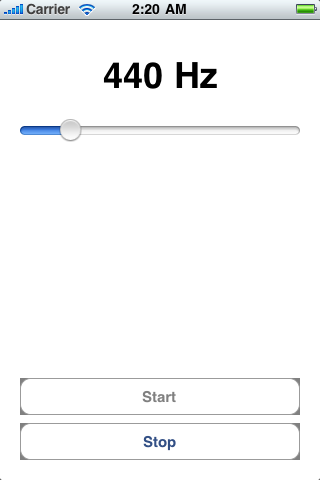
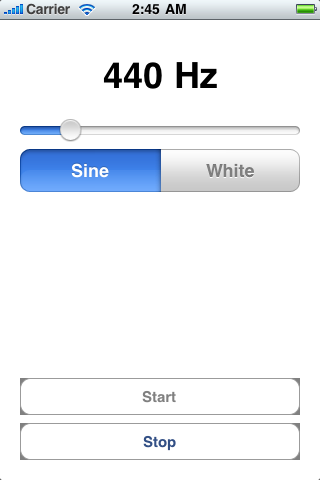
Added white noise

Changed region(s): [[0.0625, 0.3125, 0.9375, 0.4062], [0.4375, 0.0, 0.5, 0.0312]]

diff --git a/Shared/NoiseGenerator.m b/Shared/NoiseGenerator.m
@@ -14,7 +14,7 @@ int phaseR;
 float amp;
 float FL;
 float FR;
-
+NoiseGeneratorType noiseType;
 
 // Synthesis callback. Make your music here.
 static void AQBufferCallback(void *	in,	AudioQueueRef inQ, AudioQueueBufferRef	outQB) {
@@ -31,13 +31,18 @@ static void AQBufferCallback(void *	in,	AudioQueueRef inQ, AudioQueueBufferRef	o
 		outQB->mAudioDataByteSize = 4*inData->frameCount; // two shorts per frame, one frame per packet
 		// For each frame/packet (the same in our example)
 		for(i=0;i<inData->frameCount*2;i=i+2) {
-			// Render the sine waves - signed interleaved shorts (-32767 -> 32767), 16 bit stereo
-			float sampleL = (amp * sin(FL * (float)phaseL));
-			float sampleR = (amp * sin(FR * (float)phaseR));
-			short sampleIL = (int)(sampleL * 32767.0);
-			short sampleIR = (int)(sampleR * 32767.0);
-			coreAudioBuffer[i] =   sampleIL;
-			coreAudioBuffer[i+1] = sampleIR;
+			float fsample = (amp * sin(FL * (float)phaseL));
+			short sample;
+			switch (noiseType) {
+				case NoiseGeneratorTypeSineWave:
+					sample = (int)(fsample * 32767.0);
+					break;
+				case NoiseGeneratorTypeWhiteNoise:
+					sample = ((rand() % 65536) - 32767);
+					break;
+			}
+			coreAudioBuffer[i] = sample;
+			coreAudioBuffer[i+1] = sample;
 			phaseL++; phaseR++;
 		}
 		// "Enqueue" the buffer
@@ -75,6 +80,7 @@ static void AQBufferCallback(void *	in,	AudioQueueRef inQ, AudioQueueBufferRef	o
 	amp = 0.5;
 	FL = [self waveFor:440.0];
 	FR = [self waveFor:440.0];
+	noiseType = NoiseGeneratorTypeSineWave;
 	
 	// Set up our audio format -- signed interleaved shorts (-32767 -> 32767), 16 bit stereo
 	// The iphone does not want to play back float32s.
@@ -141,6 +147,23 @@ static void AQBufferCallback(void *	in,	AudioQueueRef inQ, AudioQueueBufferRef	o
 	frequency = [freqSlider value];
 	[freqLabel setText:[NSString stringWithFormat:@"%.1f Hz", frequency]];
 	FL = FR = [self waveFor:frequency];
+}
+
+- (IBAction)selectorChange {
+	switch ([noiseSelector selectedSegmentIndex]) {
+		case 0:
+			freqLabel.enabled = YES;
+			freqSlider.enabled = YES;
+			noiseType = NoiseGeneratorTypeSineWave;
+			break;
+		case 1:
+			freqLabel.enabled = NO;
+			freqSlider.enabled = NO;
+			noiseType = NoiseGeneratorTypeWhiteNoise;
+			break;
+		default:
+			break;
+	}
 }
 
 @end

diff --git a/Shared/NoiseGenerator.h b/Shared/NoiseGenerator.h
@@ -19,6 +19,11 @@ typedef struct AQCallbackStruct {
 	AudioStreamBasicDescription		mDataFormat;
 } AQCallbackStruct;
 
+typedef enum {
+	NoiseGeneratorTypeSineWave = 0,
+	NoiseGeneratorTypeWhiteNoise,
+} NoiseGeneratorType;
+
 @interface NoiseGenerator : NSObject {
 	bool isPlaying;
 	float frequency;
@@ -26,11 +31,13 @@ typedef struct AQCallbackStruct {
 	IBOutlet UILabel *freqLabel;
 	IBOutlet UIButton *btnStart;
 	IBOutlet UIButton *btnStop;
+	IBOutlet UISegmentedControl *noiseSelector;
 	NSThread *bgThread;
 	AQCallbackStruct in;
 }
 - (IBAction)start;
 - (IBAction)stop;
 - (IBAction)sliderUpdated;
+- (IBAction)selectorChange;
 - (void)setupGenerator;
 @end
